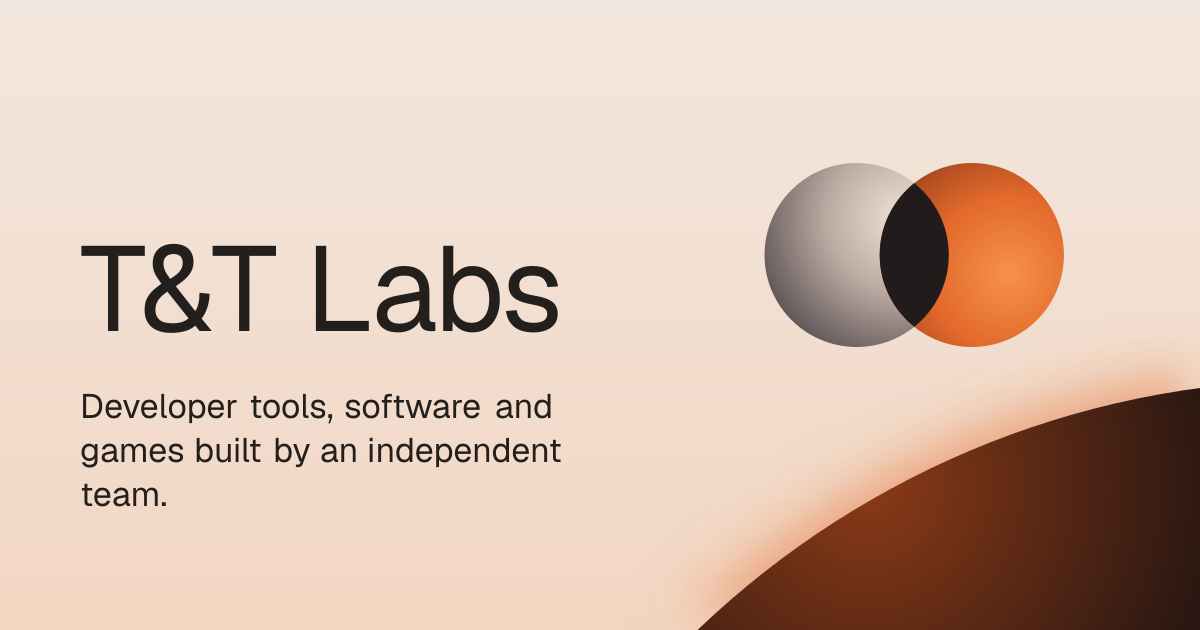
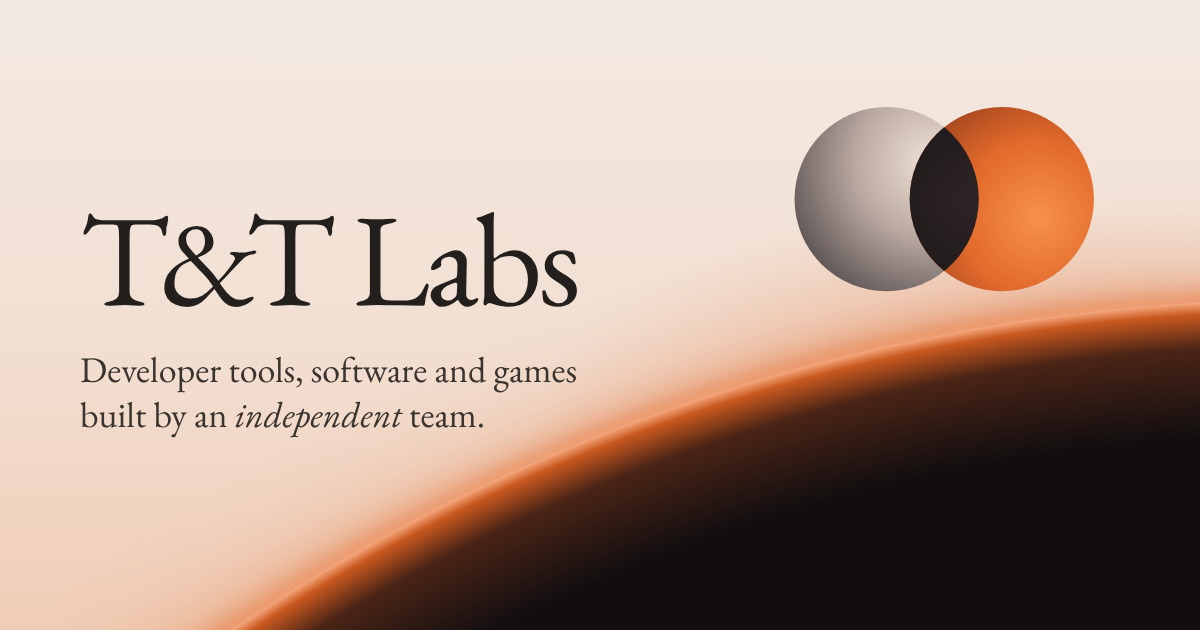
Prepare the site for launch on Cloudflare
- Canonical URLs, sitemap.xml and robots.txt from NEXT_PUBLIC_SITE_URL;
  the deploy script refuses to build without an https origin
- Security and caching headers via public/_headers
- Social preview and Apple touch icon rendered with the site's serif
  (scripts/brand-images.mjs)
- GitHub Actions workflow deploys main once Cloudflare secrets are set
- Custom-domain instructions in wrangler.jsonc and the README

Claude-Session: https://claude.ai/code/session_01GnVS3NR9VanfPAK4yPFVLH

diff --git a/app/games/chernaya-tamga/page.tsx b/app/games/chernaya-tamga/page.tsx
@@ -6,10 +6,18 @@ import courtyard from "@/public/images/games/tamga-courtyard.jpg";
 import fire from "@/public/images/games/tamga-fire.jpg";
 
 export const metadata: Metadata = {
+  alternates: { canonical: "/games/chernaya-tamga" },
   title: "Chernaya Tamga",
   description:
     "Chernaya Tamga is a third-person dark fantasy game in development, set in Aktobe after the sun has been swallowed.",
-  openGraph: { images: [{ url: avenue.src, width: avenue.width, height: avenue.height }] },
+  openGraph: {
+    type: "website",
+    siteName: "T&T Labs",
+    url: "/games/chernaya-tamga",
+    title: "Chernaya Tamga",
+    description: "A third-person dark fantasy game in development, set in a sunless Aktobe.",
+    images: [{ url: avenue.src, width: avenue.width, height: avenue.height }],
+  },
 };
 
 const shots = [

diff --git a/app/layout.tsx b/app/layout.tsx
@@ -2,6 +2,7 @@ import type { Metadata, Viewport } from "next";
 import { EB_Garamond, IBM_Plex_Mono, IBM_Plex_Sans } from "next/font/google";
 import SiteHeader from "@/components/SiteHeader";
 import SiteFooter from "@/components/SiteFooter";
+import { siteUrl } from "@/lib/site";
 import "./globals.css";
 
 const garamond = EB_Garamond({
@@ -25,10 +26,9 @@ const plexMono = IBM_Plex_Mono({
   display: "swap",
 });
 
-const siteUrl = process.env.NEXT_PUBLIC_SITE_URL;
-
 export const metadata: Metadata = {
-  ...(siteUrl ? { metadataBase: new URL(siteUrl) } : {}),
+  metadataBase: new URL(siteUrl),
+  alternates: { canonical: "/" },
   title: {
     default: "T&T Labs",
     template: "%s · T&T Labs",

diff --git a/lib/site.ts b/lib/site.ts
@@ -1,0 +1,13 @@
+/**
+ * Public origin of the site, e.g. https://tt-labs.example. Set at build time
+ * through NEXT_PUBLIC_SITE_URL; `npm run deploy` refuses to run without it
+ * (scripts/check-site-url.mjs), so production builds never ship localhost URLs.
+ */
+export const siteUrl = (process.env.NEXT_PUBLIC_SITE_URL ?? "http://localhost:3000").replace(/\/+$/, "");
+
+export const routes = [
+  "/",
+  "/applications/veloboost",
+  "/applications/mypc",
+  "/games/chernaya-tamga",
+] as const;

diff --git a/app/sitemap.ts b/app/sitemap.ts
@@ -1,0 +1,12 @@
+import type { MetadataRoute } from "next";
+import { routes, siteUrl } from "@/lib/site";
+
+export const dynamic = "force-static";
+
+export default function sitemap(): MetadataRoute.Sitemap {
+  return routes.map((path) => ({
+    url: `${siteUrl}${path === "/" ? "" : path}`,
+    changeFrequency: "monthly",
+    priority: path === "/" ? 1 : 0.7,
+  }));
+}

diff --git a/app/applications/veloboost/page.tsx b/app/applications/veloboost/page.tsx
@@ -2,6 +2,7 @@ import type { Metadata } from "next";
 import ProductPage from "@/components/ProductPage";
 
 export const metadata: Metadata = {
+  alternates: { canonical: "/applications/veloboost" },
   title: "VeloBoost",
   description:
     "VeloBoost is a Windows utility that applies reversible system tweaks while a chosen game runs, then rolls them back.",

diff --git a/app/applications/mypc/page.tsx b/app/applications/mypc/page.tsx
@@ -3,6 +3,7 @@ import ProductPage from "@/components/ProductPage";
 import { githubUrl } from "@/lib/projects";
 
 export const metadata: Metadata = {
+  alternates: { canonical: "/applications/mypc" },
   title: "MyPC",
   description:
     "MyPC is a Telegram bot that tells you when your Windows PC turns on and can lock it remotely.",

diff --git a/app/robots.ts b/app/robots.ts
@@ -1,0 +1,11 @@
+import type { MetadataRoute } from "next";
+import { siteUrl } from "@/lib/site";
+
+export const dynamic = "force-static";
+
+export default function robots(): MetadataRoute.Robots {
+  return {
+    rules: { userAgent: "*", allow: "/" },
+    sitemap: `${siteUrl}/sitemap.xml`,
+  };
+}

diff --git a/README.md b/README.md
@@ -38,8 +38,14 @@ npm run dev
 ## Deploy (Cloudflare Workers)
 
 The site is a static export (`output: "export"`, built into `out/`) served as
-Worker static assets. `wrangler.jsonc` defines the Worker `tt-labs-site`; there is
-no server code. Unknown paths get `out/404.html` with a 404 status.
+Worker static assets by the Worker `tt-labs-site` (`wrangler.jsonc`). There is no
+server code. Unknown paths get `out/404.html` with a 404 status.
+`public/_headers` sets the security headers (CSP, HSTS, frame denial, etc.) and
+caching (`/_next/static/*` immutable for a year, HTML always revalidated).
+
+`NEXT_PUBLIC_SITE_URL` is the public origin. It feeds canonical links, the
+sitemap, `robots.txt` and social preview URLs; `npm run deploy` refuses to run
+without an https value.
 
 Preview on the Workers runtime locally:
 
@@ -47,15 +53,43 @@ Preview on the Workers runtime locally:
 npm run preview
 ```
 
-Deploy (needs `CLOUDFLARE_API_TOKEN` with the *Edit Cloudflare Workers* template,
-and `CLOUDFLARE_ACCOUNT_ID`):
+### Automatic deploys (recommended)
+
+`.github/workflows/deploy.yml` deploys every push to `main`. In the GitHub repo,
+Settings > Secrets and variables > Actions, add:
+
+| Kind | Name | Value |
+|---|---|---|
+| Secret | `CLOUDFLARE_API_TOKEN` | API token from the *Edit Cloudflare Workers* template |
+| Secret | `CLOUDFLARE_ACCOUNT_ID` | Cloudflare account ID |
+| Variable | `SITE_URL` | e.g. `https://tt-labs-site.<subdomain>.workers.dev` |
+
+Until all three exist the workflow skips the deploy with a warning instead of failing.
+
+### Manual deploy
 
 ```bash
-NEXT_PUBLIC_SITE_URL=https://tt-labs-site.<your-subdomain>.workers.dev npm run deploy
+npx wrangler login
 ```
 
-`NEXT_PUBLIC_SITE_URL` makes Open Graph image URLs absolute. Use the custom
-domain instead once one is attached.
+```bash
+NEXT_PUBLIC_SITE_URL=https://tt-labs-site.<subdomain>.workers.dev npm run deploy
+```
+
+### Custom domain
+
+When the domain's zone is on the same Cloudflare account: add the `routes` entry
+shown in `wrangler.jsonc`, change `SITE_URL` to the domain, and redeploy.
+
+### Brand images
+
+`app/opengraph-image.png` and `app/apple-icon.png` are rendered from
+`scripts/brand-images.mjs` with the site's typeface. Re-run after changing the
+mark or tagline (needs Playwright with Chromium):
+
+```bash
+npm run brand-images
+```
 
 ## Images
 
